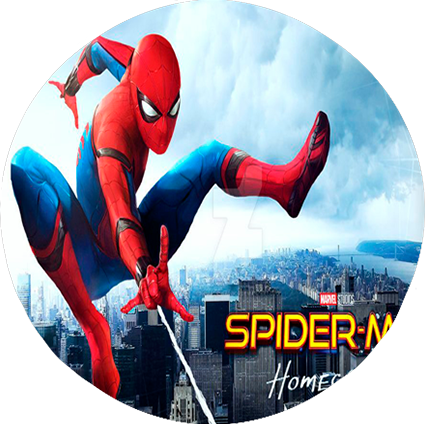
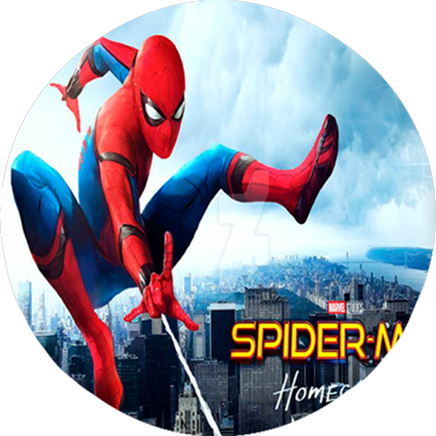
nefore merge

diff --git a/style.css b/style.css
@@ -20,8 +20,8 @@
 }
 
 #bigImagePoster {
-    top: 8px;
-    left: 8px;
+    top: 7px;
+    left: 7px;
     position: absolute;
 }
 
